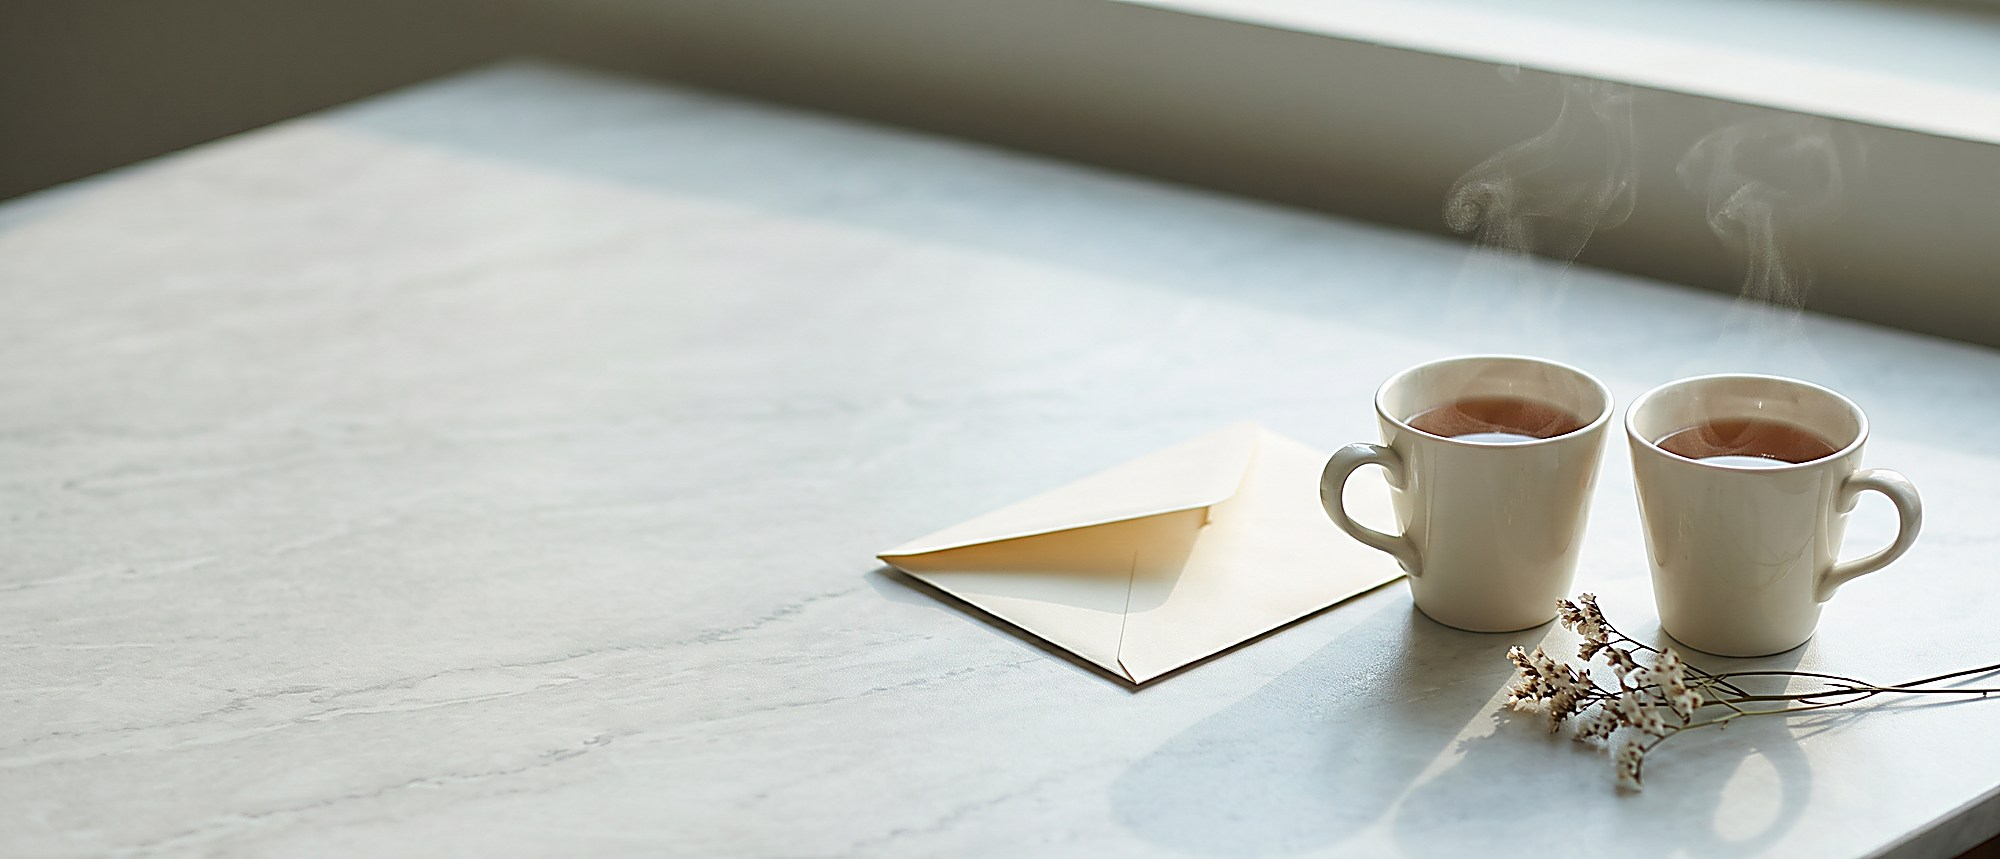
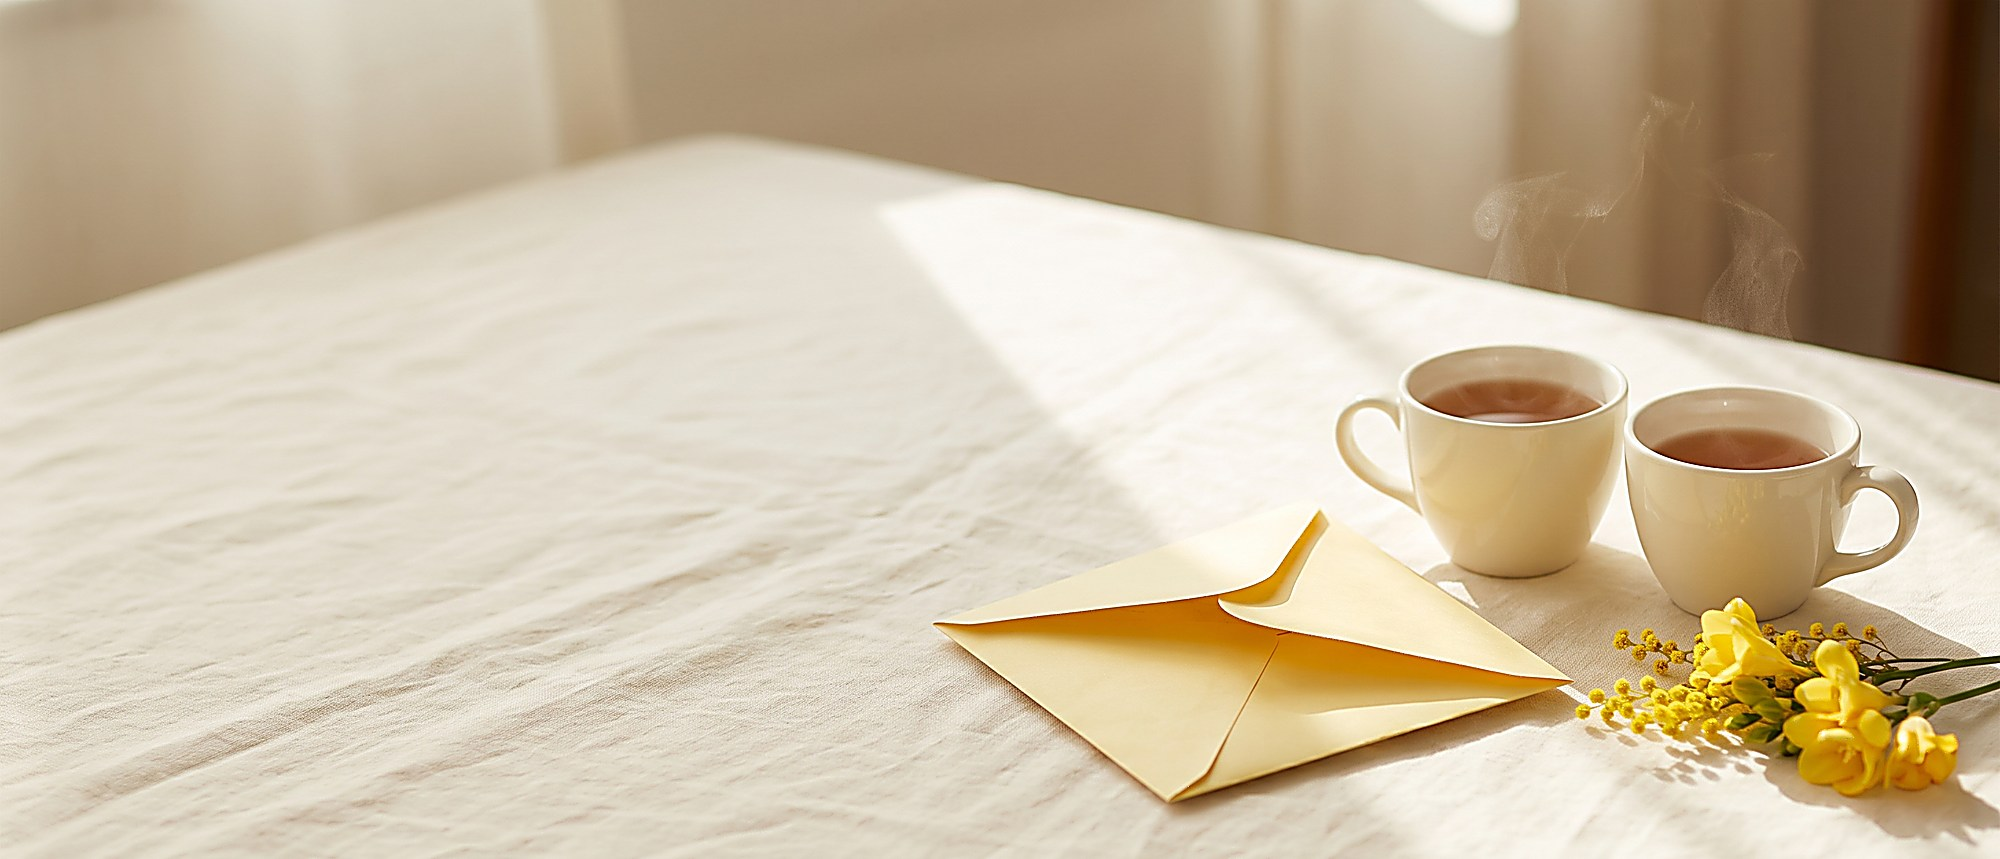
시안: 보내기 배너 노란 사진·꿀갈색 막
Claude-Session: https://claude.ai/code/session_01BaSwwFaacEUtQjFXGJUdho

diff --git a/css/omaju.css b/css/omaju.css
@@ -2714,7 +2714,7 @@ body.mz-on { padding-bottom: 76px; }
   background-size: cover; background-position: right center; box-shadow: 0 6px 18px rgba(40,30,10,0.10); font: inherit; }
 .endb[hidden] { display: none !important; }
 .endb-in { background-image: linear-gradient(90deg, rgba(30,20,11,0.80) 0%, rgba(30,20,11,0.55) 45%, rgba(30,20,11,0.05) 78%), url(../img/end-install.jpg); }
-.endb-sh { background-image: linear-gradient(90deg, rgba(10,45,32,0.80) 0%, rgba(10,45,32,0.55) 45%, rgba(10,45,32,0.05) 78%), url(../img/end-share.jpg); }
+.endb-sh { background-image: linear-gradient(90deg, rgba(74,50,6,0.80) 0%, rgba(74,50,6,0.52) 45%, rgba(74,50,6,0.04) 78%), url(../img/end-share.jpg?v=2); }  /* 노란 사진엔 꿀갈색 막 (대표 2026-10-26 카톡 느낌) */
 .endb .eb-t { display: flex; flex-direction: column; gap: 4px; max-width: 72%; min-width: 0; text-shadow: 0 1px 6px rgba(0,0,0,0.35); }
 .endb small { font-size: 0.85rem; letter-spacing: 0.04em; color: #F3E7C4; font-weight: 600; }
 .endb b { font-family: 'Noto Serif KR', serif; font-size: 1.32rem; font-weight: 700; line-height: 1.3; word-break: keep-all; }
